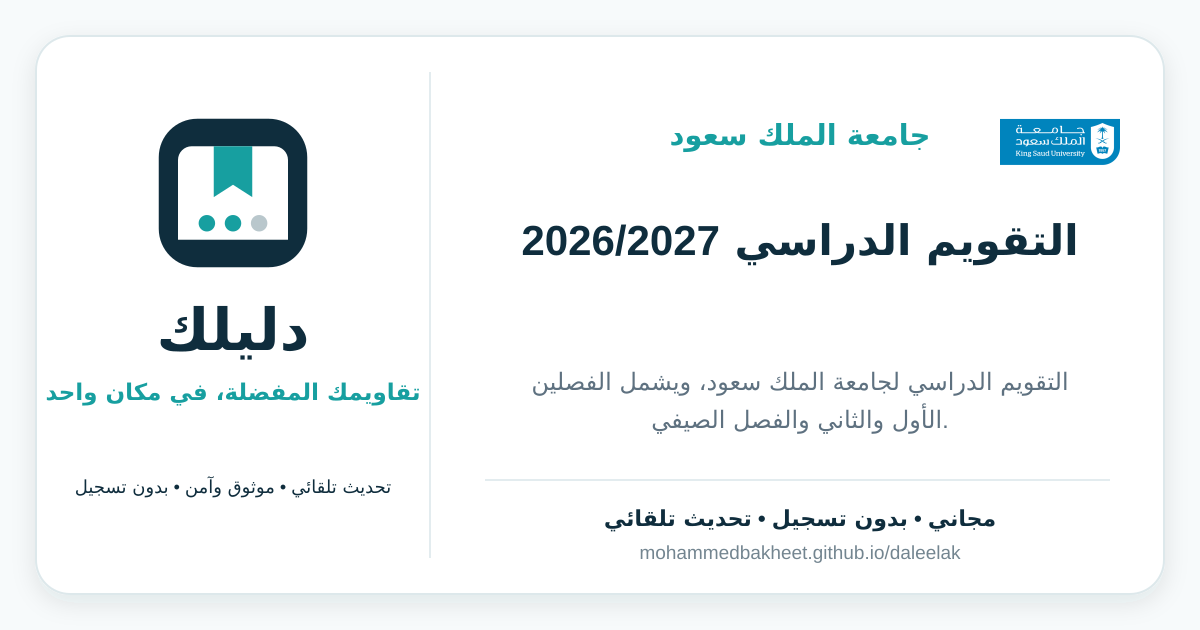
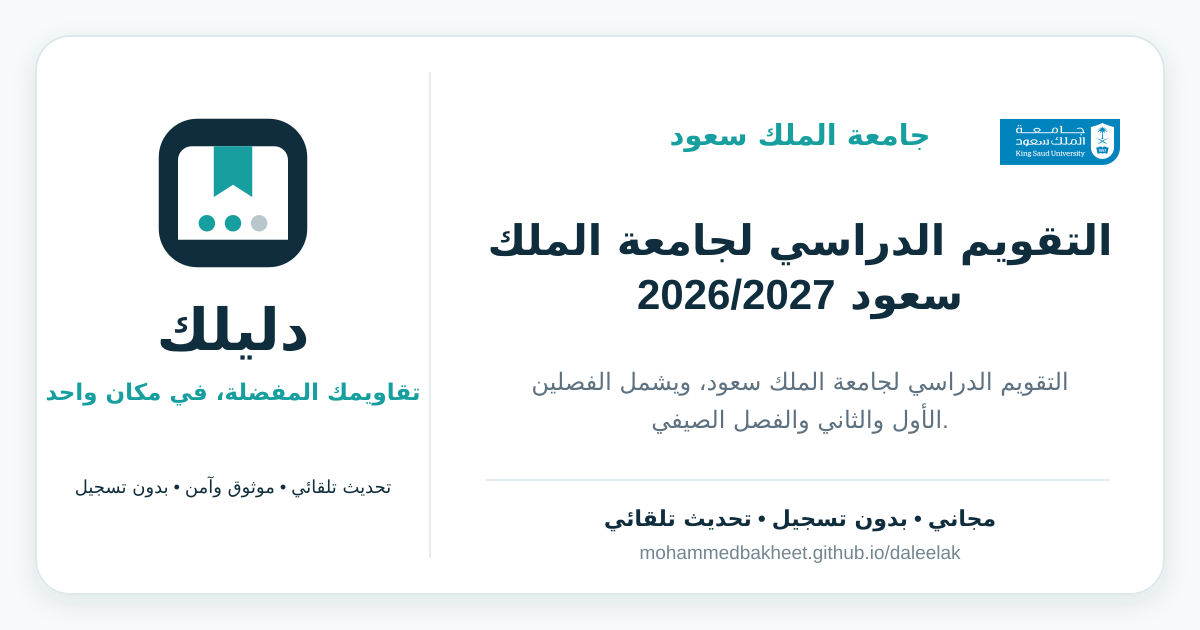
chore: update generated calendar data

Changed region(s): [[0.4008, 0.3317, 0.925, 0.5127]]

diff --git a/share/king-saud-university/index.html b/share/king-saud-university/index.html
@@ -1,1 +1,1 @@
-<!doctype html><html lang="ar" dir="rtl"><head><meta charset="utf-8"><meta name="viewport" content="width=device-width,initial-scale=1"><title>التقويم الدراسي 2026/2027 — جامعة الملك سعود | دليلك</title><meta name="description" content="التقويم الدراسي لجامعة الملك سعود، ويشمل الفصلين الأول والثاني والفصل الصيفي."><link rel="canonical" href="https://mohammedbakheet.github.io/daleelak/share/king-saud-university/"><meta property="og:type" content="website"><meta property="og:site_name" content="دليلك"><meta property="og:locale" content="ar_SA"><meta property="og:url" content="https://mohammedbakheet.github.io/daleelak/share/king-saud-university/"><meta property="og:title" content="التقويم الدراسي 2026/2027 — جامعة الملك سعود | دليلك"><meta property="og:description" content="التقويم الدراسي لجامعة الملك سعود، ويشمل الفصلين الأول والثاني والفصل الصيفي."><meta property="og:image" content="https://mohammedbakheet.github.io/daleelak/og/king-saud-university.png?v=bdb58a038fa8"><meta property="og:image:secure_url" content="https://mohammedbakheet.github.io/daleelak/og/king-saud-university.png?v=bdb58a038fa8"><meta property="og:image:type" content="image/png"><meta property="og:image:width" content="1200"><meta property="og:image:height" content="630"><meta property="og:image:alt" content="بطاقة التقويم الدراسي 2026/2027 من دليلك"><meta name="twitter:card" content="summary_large_image"><meta name="twitter:title" content="التقويم الدراسي 2026/2027 — جامعة الملك سعود | دليلك"><meta name="twitter:description" content="التقويم الدراسي لجامعة الملك سعود، ويشمل الفصلين الأول والثاني والفصل الصيفي."><meta name="twitter:image" content="https://mohammedbakheet.github.io/daleelak/og/king-saud-university.png?v=bdb58a038fa8"><meta name="theme-color" content="#0F2D3D"><link rel="icon" href="../../assets/icons/favicon-32.png"><meta http-equiv="refresh" content="1;url=https://mohammedbakheet.github.io/daleelak/calendar.html?id=king-saud-university"><style>body{margin:0;min-height:100vh;display:grid;place-items:center;background:#f7fafb;color:#0f2d3d;font-family:Arial,sans-serif;text-align:center}.card{max-width:520px;padding:32px}.card img{width:92px}.card a{display:inline-block;margin-top:18px;padding:13px 22px;border-radius:12px;background:#179fa0;color:#fff;text-decoration:none;font-weight:700}</style><script>window.location.replace("https://mohammedbakheet.github.io/daleelak/calendar.html?id=king-saud-university");</script></head><body><main class="card"><img src="../../assets/brand/logo-icon.svg" alt="دليلك"><h1>التقويم الدراسي 2026/2027</h1><p>التقويم الدراسي لجامعة الملك سعود، ويشمل الفصلين الأول والثاني والفصل الصيفي.</p><a href="https://mohammedbakheet.github.io/daleelak/calendar.html?id=king-saud-university">فتح صفحة التقويم</a></main></body></html>
+<!doctype html><html lang="ar" dir="rtl"><head><meta charset="utf-8"><meta name="viewport" content="width=device-width,initial-scale=1"><title>التقويم الدراسي لجامعة الملك سعود 2026/2027 — جامعة الملك سعود | دليلك</title><meta name="description" content="التقويم الدراسي لجامعة الملك سعود، ويشمل الفصلين الأول والثاني والفصل الصيفي."><link rel="canonical" href="https://mohammedbakheet.github.io/daleelak/share/king-saud-university/"><meta property="og:type" content="website"><meta property="og:site_name" content="دليلك"><meta property="og:locale" content="ar_SA"><meta property="og:url" content="https://mohammedbakheet.github.io/daleelak/share/king-saud-university/"><meta property="og:title" content="التقويم الدراسي لجامعة الملك سعود 2026/2027 — جامعة الملك سعود | دليلك"><meta property="og:description" content="التقويم الدراسي لجامعة الملك سعود، ويشمل الفصلين الأول والثاني والفصل الصيفي."><meta property="og:image" content="https://mohammedbakheet.github.io/daleelak/og/king-saud-university.png?v=83ff048c7e95"><meta property="og:image:secure_url" content="https://mohammedbakheet.github.io/daleelak/og/king-saud-university.png?v=83ff048c7e95"><meta property="og:image:type" content="image/png"><meta property="og:image:width" content="1200"><meta property="og:image:height" content="630"><meta property="og:image:alt" content="بطاقة التقويم الدراسي لجامعة الملك سعود 2026/2027 من دليلك"><meta name="twitter:card" content="summary_large_image"><meta name="twitter:title" content="التقويم الدراسي لجامعة الملك سعود 2026/2027 — جامعة الملك سعود | دليلك"><meta name="twitter:description" content="التقويم الدراسي لجامعة الملك سعود، ويشمل الفصلين الأول والثاني والفصل الصيفي."><meta name="twitter:image" content="https://mohammedbakheet.github.io/daleelak/og/king-saud-university.png?v=83ff048c7e95"><meta name="theme-color" content="#0F2D3D"><link rel="icon" href="../../assets/icons/favicon-32.png"><meta http-equiv="refresh" content="1;url=https://mohammedbakheet.github.io/daleelak/calendar.html?id=king-saud-university"><style>body{margin:0;min-height:100vh;display:grid;place-items:center;background:#f7fafb;color:#0f2d3d;font-family:Arial,sans-serif;text-align:center}.card{max-width:520px;padding:32px}.card img{width:92px}.card a{display:inline-block;margin-top:18px;padding:13px 22px;border-radius:12px;background:#179fa0;color:#fff;text-decoration:none;font-weight:700}</style><script>window.location.replace("https://mohammedbakheet.github.io/daleelak/calendar.html?id=king-saud-university");</script></head><body><main class="card"><img src="../../assets/brand/logo-icon.svg" alt="دليلك"><h1>التقويم الدراسي لجامعة الملك سعود 2026/2027</h1><p>التقويم الدراسي لجامعة الملك سعود، ويشمل الفصلين الأول والثاني والفصل الصيفي.</p><a href="https://mohammedbakheet.github.io/daleelak/calendar.html?id=king-saud-university">فتح صفحة التقويم</a></main></body></html>
